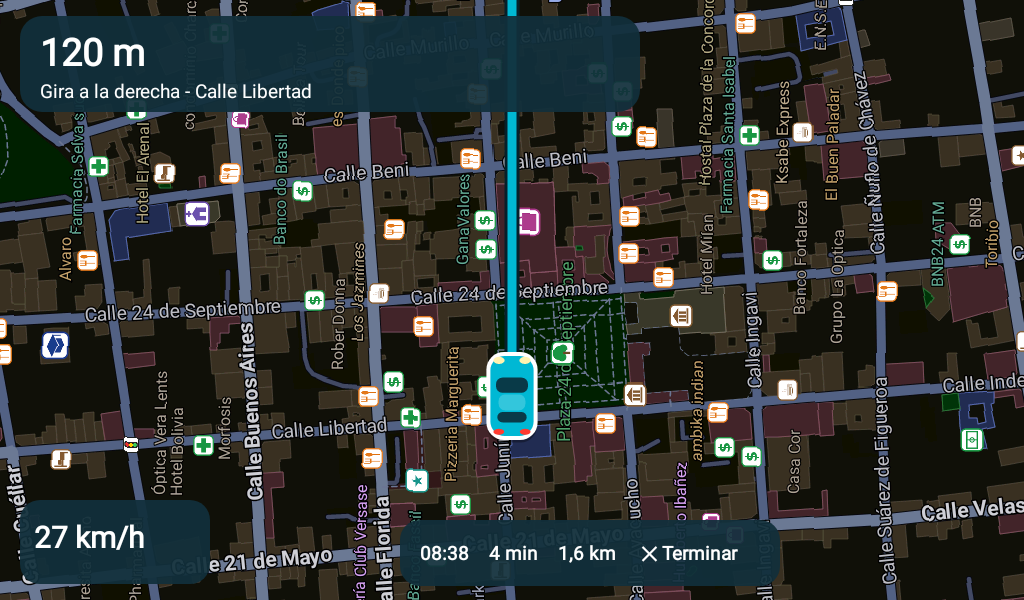
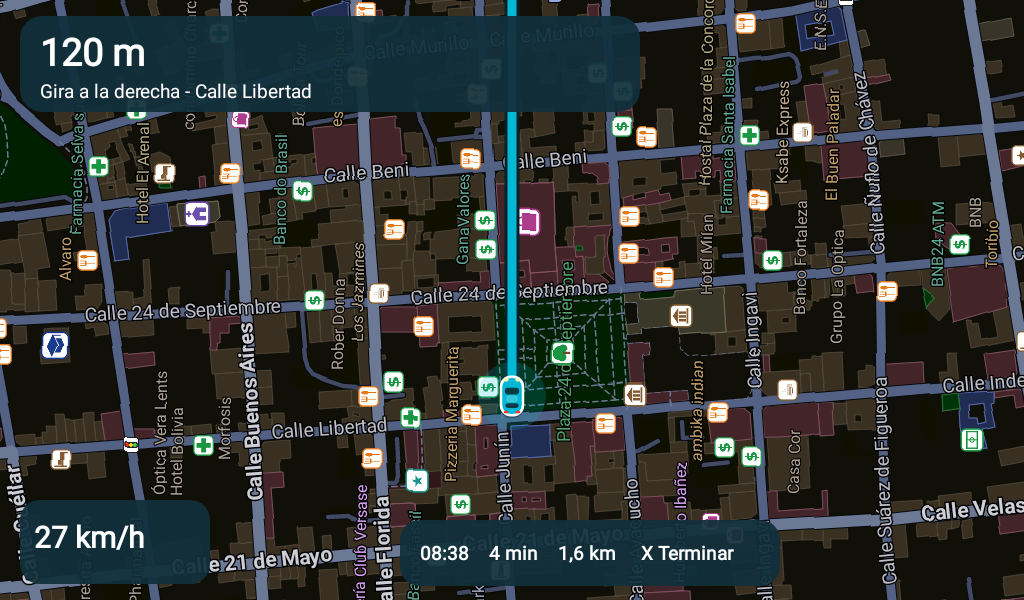
Mapa: icono de auto mas chico (1.0.8)

Changed region(s): [[0.4688, 0.57, 0.5312, 0.75], [0.625, 0.9, 0.7188, 0.93]]

diff --git a/launcher/app/src/main/java/org/opencar/launcher/LiveMap.kt b/launcher/app/src/main/java/org/opencar/launcher/LiveMap.kt
@@ -102,7 +102,7 @@ class LiveMap(ctx: Context, private val sc: Float, private val acc: Int, private
             val c = AndroidGraphicFactory.getCanvas(canvas)
             val pt = Paint(Paint.ANTI_ALIAS_FLAG)
             pt.color = (acc and 0x00FFFFFF) or 0x30000000; c.drawCircle(x, y, 26f * sc, pt)
-            CarIcon.draw(c, x, y, bearing, sc, acc, 0.75f)
+            CarIcon.draw(c, x, y, bearing, sc, acc, 0.5f)
         }
     }
 

diff --git a/launcher/app/src/main/java/org/opencar/launcher/MapActivity.kt b/launcher/app/src/main/java/org/opencar/launcher/MapActivity.kt
@@ -1023,7 +1023,7 @@ class MapActivity : Activity(), LocationListener {
             val c = AndroidGraphicFactory.getCanvas(canvas)
             val pt = Paint(Paint.ANTI_ALIAS_FLAG)
             pt.color = (acc and 0x00FFFFFF) or 0x30000000; c.drawCircle(x, y, 34f * sc, pt)
-            CarIcon.draw(c, x, y, bearing, sc, acc)
+            CarIcon.draw(c, x, y, bearing, sc, acc, 0.72f)
         }
     }
 
